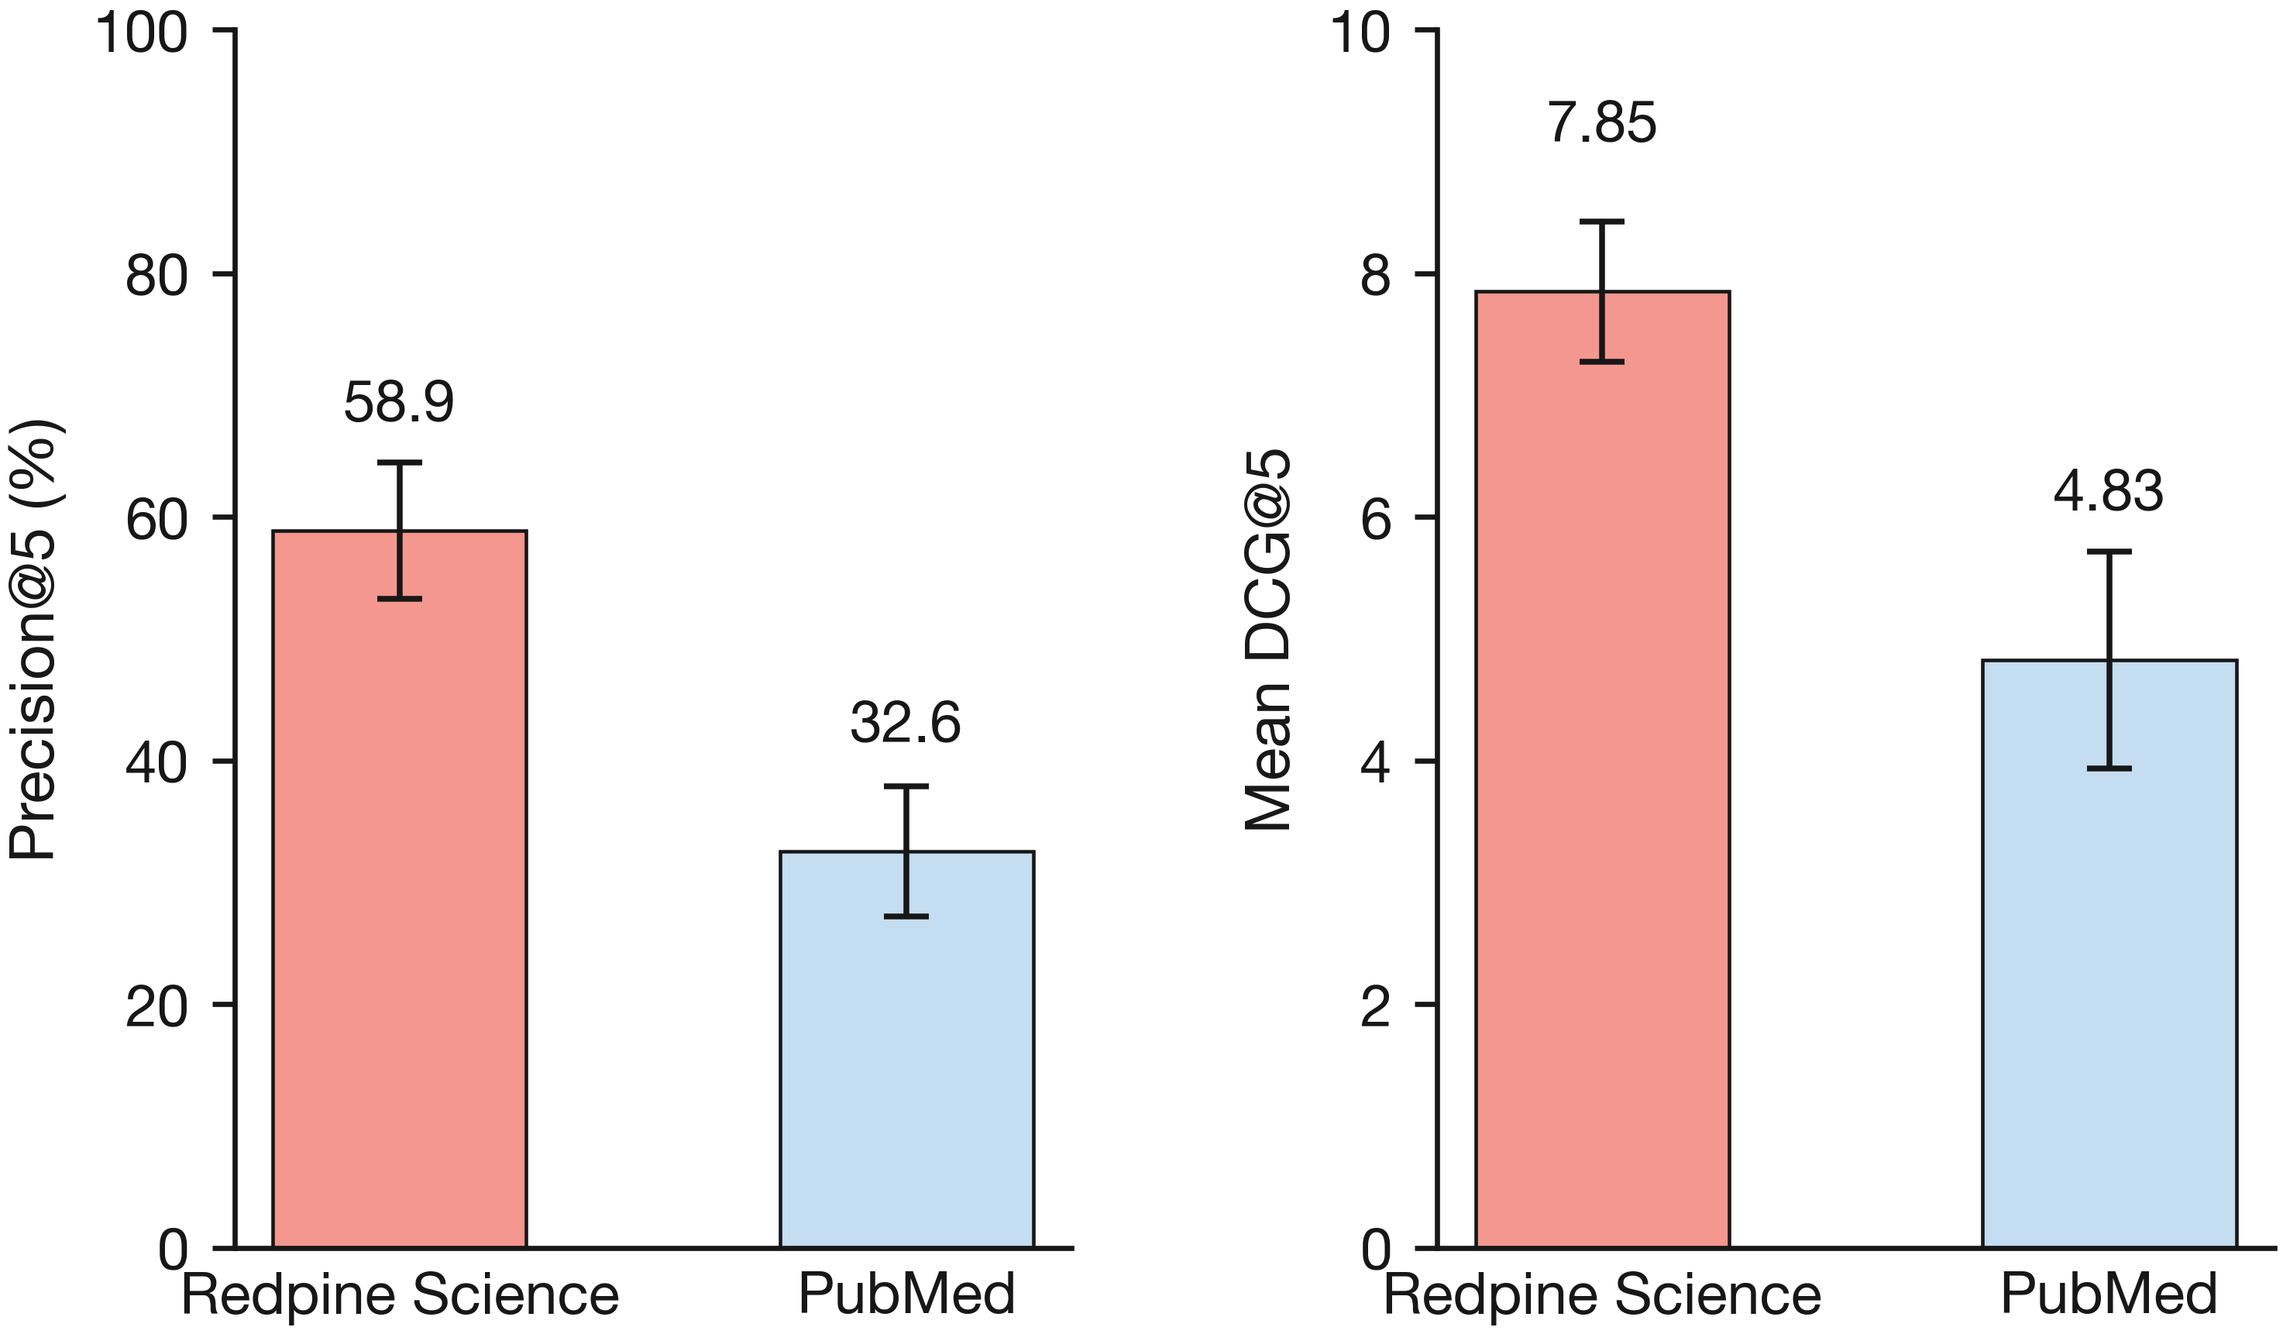
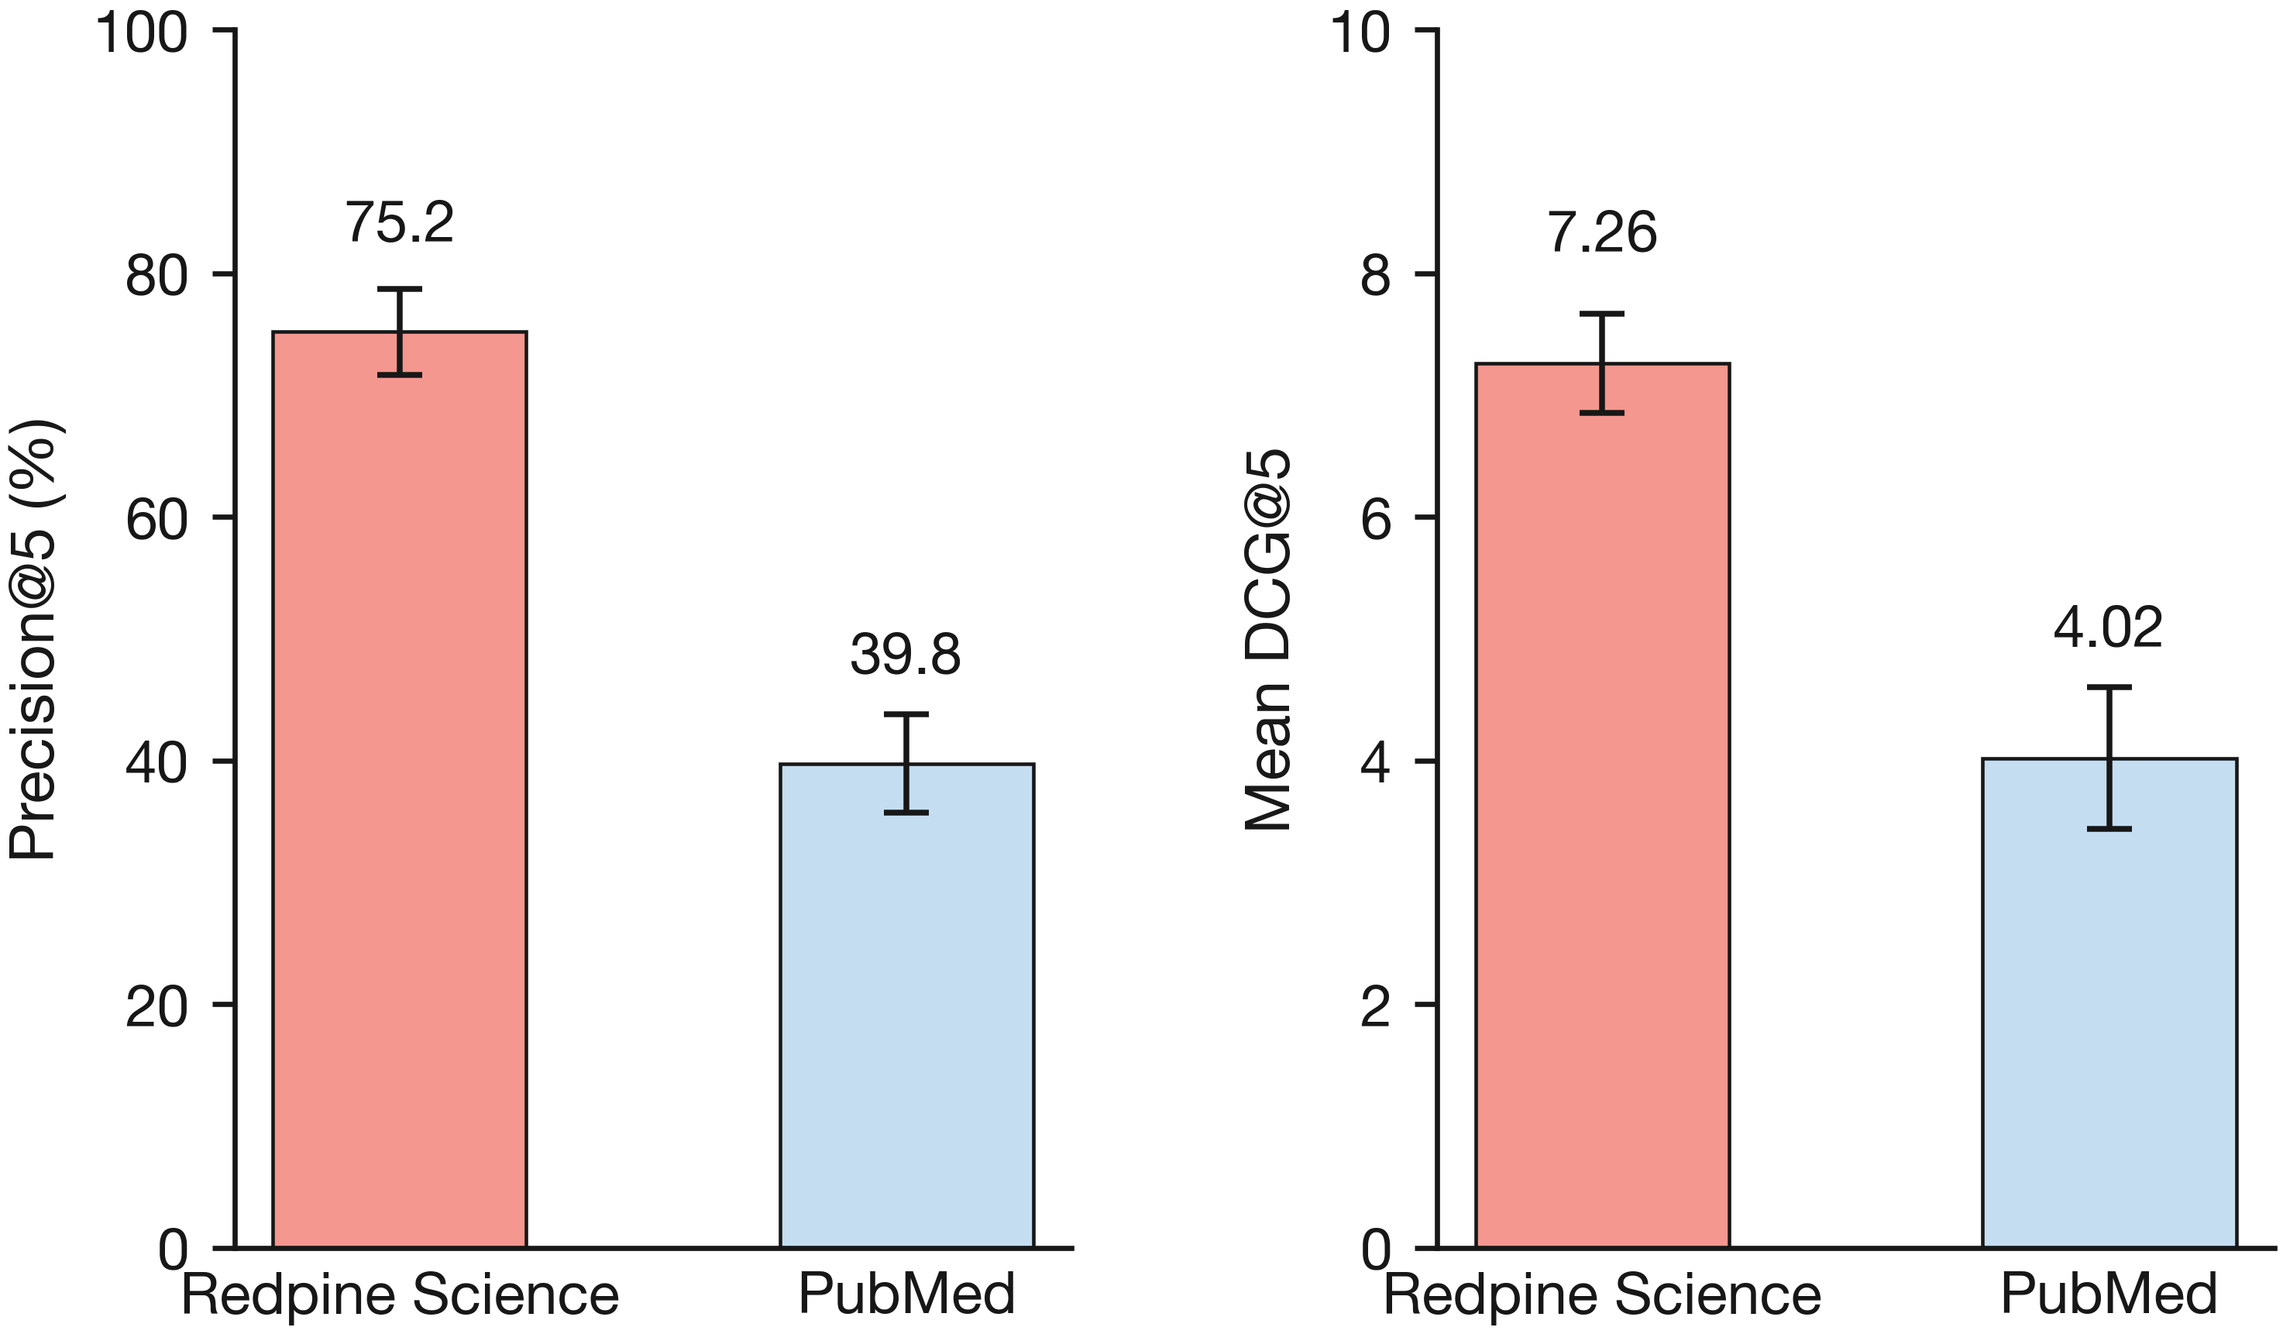
fix(quadrant-four): real n=115 numbers, all three panelists, Precision@5 at a >=2 threshold
The third panelist's 30-question rheumatology batch landed, completing the
90 domain-specific + 25 cross-judged pool this section's Method already
described. Precision@5/DCG@5/mean relevance recomputed from all three
panelists' pooled item-level scores (real n=115, not the earlier two-judge
n=85 placeholder): DCG@5 7.26 vs. 4.02, mean relevance 2.43 vs. 1.38.

Precision@5's relevance threshold also changed from >=3 to >=2 out of 4, a
deliberate choice, not a match to the published evaluation this report's
scale otherwise follows -- stated explicitly in the figure caption, the
Results prose, and the figure script's own docstring so it doesn't read as
a silent mismatch with the citation. Redpine Science 75.2% against 39.8%
for PubMed at this threshold.

Three separate mentions of the old headline number (abstract, Results,
Summary) all updated together.

diff --git a/figures/fig_quadrant4_combined.py b/figures/fig_quadrant4_combined.py
@@ -13,30 +13,33 @@ panel was briefly a separate figure of its own (fig_quadrant4_dcg.py, removed
 2026-09-23 -- "I just want the precision at 5 plot") and is reinstated here,
 now as a second panel of the same figure rather than a second standalone one.
 
-Data provenance -- same pooled judging pass for both panels: two PhD-level
-domain experts each blind-score their own batch of 30 subspecialty questions
-(one batch mostly neurology, the other entirely cardiology), top 5 results
-per system, 0-4 relevance scale, single-shot retrieval (no agent loop),
-"relevant" = score >= 3 of 4, matching quadrant four's Method section. Read
-directly from connect-eval-fresh's run outputs:
+Data provenance, all three panelists now included (2026-09-25 -- the third
+panelist's 30 questions landed, superseding an earlier two-judge, n=85 version
+of this figure): three PhD-level domain experts each blind-score their own
+batch of 30 subspecialty questions (neurology-mostly, cardiology,
+rheumatology), plus 25 further questions cross-judged by two of the three for
+an inter-rater agreement check (see quadrant four's Method section) --
+115 questions in all. Top 5 results per system, 0-4 relevance scale,
+single-shot retrieval (no agent loop), "relevant" = score >= 3 of 4. Read
+directly from connect-eval-fresh's run outputs, each domain batch's own
+summary.json/raw_scores.json plus the cross-judged 25's pooled per-item
+average (judges' scores on a shared item averaged before pooling, so a
+cross-judged question contributes one data point, not two).
 
-    runs/relevance_judging_jin_30/summary.json       n_scored=149 (connect), 149 (pubmed)
-    runs/relevance_judging_zihan_30/summary.json     n_scored=150 (connect), 149 (pubmed)
-    runs/relevance_judging_jin_30/raw_scores.json    ["systems"][system]["per_query_dcg"]
-    runs/relevance_judging_zihan_30/raw_scores.json  ["systems"][system]["per_query_dcg"]
+Precision@5: relevant counts derived directly from the pooled item-level
+scores (>= 2 of 4 counts as relevant -- one point looser than the >= 3
+threshold the published relevance evaluation this report's Method section
+cites uses; a deliberate choice for this report, not a match to their own
+cutoff -- see main.tex's Method section for the same note). Pooled: Redpine
+430/572 = 75.2%, PubMed 227/571 = 39.8%. Error bars are a Wald 95% CI for a
+binomial proportion, from these exact pooled counts.
 
-Precision@5: relevant counts derived from each run's precision * n_scored
-(every one lands on a whole number). Pooled: Redpine 176/299 = 58.9%,
-PubMed 97/298 = 32.6%. Error bars are a Wald 95% CI for a binomial
-proportion, from these exact pooled counts.
-
-Mean DCG@5: per-query DCG@5 values from both judges' 30-query batches
-concatenated into one list of 60 per system (Jin's 30 followed by Zihan's
-30, in query order within each batch) -- the same values fig_quadrant4_dcg.py
-carried before its removal, copied forward here rather than re-derived, since
-they were already checked against the pooled aggregate ("7.85"/"4.83" to two
-decimal places) at the time. Error bars are a two-sided t 95% CI of the mean
-over the 60 pooled per-query values (59 df).
+Mean DCG@5: per-query DCG@5 values from all three domain batches (90 values)
+plus the 25 cross-judged questions' own pooled per-query DCG (each already an
+average across whichever judges scored it) -- 115 values per system in query
+order (Jin's 30, Zihan's 30, Nora's 30, then the 25 cross-judged). Error bars
+are a two-sided t 95% CI of the mean over the 115 pooled per-query values
+(114 df).
 
 Run:  uv run --with matplotlib python figures/fig_quadrant4_combined.py
 """
@@ -60,9 +63,11 @@ ORDER = ["redpine", "pubmed"]
 LABELS = {"redpine": "Redpine Science", "pubmed": "PubMed"}
 
 # --- Panel 1: Precision@5 ---------------------------------------------------
-PRECISION_COUNTS = {  # (relevant, n_scored), pooled across both judges
-    "redpine": (176, 299),
-    "pubmed": (97, 298),
+# Threshold >= 2 of 4 (not the >= 3 a published relevance evaluation's own
+# threshold uses) -- a deliberate choice for this report, see docstring above.
+PRECISION_COUNTS = {  # (relevant, n_scored), pooled across all three panelists' domain
+    "redpine": (430, 572),  # batches plus the two-judge cross-judged 25
+    "pubmed": (227, 571),
 }
 Z_95 = 1.959963984540054  # two-sided normal critical value at 95%
 
@@ -75,9 +80,9 @@ def proportion_and_ci(k, n):
 
 
 # --- Panel 2: mean DCG@5 -----------------------------------------------------
-# Per-query DCG@5, pooled across both judges' 30-query batches (60 values per
-# system): relevance_judging_jin_30's 30 values followed by
-# relevance_judging_zihan_30's 30 values, in query order within each batch.
+# Per-query DCG@5, all three domain batches (90 values) plus the 25
+# cross-judged questions' own pooled per-query value (115 per system), in
+# query order: Jin's 30, Zihan's 30, Nora's 30, then the 25 cross-judged.
 PER_QUERY_DCG = {
     "redpine": [
         7.202601495740551, 8.801553605799326, 5.0716717421690936, 9.976307110209634,
@@ -87,41 +92,67 @@ PER_QUERY_DCG = {
         8.21444760306672, 4.510065430524243, 7.658777744901699, 6.823465818787765,
         6.948459118879392, 6.841248379593765, 10.50180680129739, 4.966241679685392,
         6.127341600334113, 4.870877047725932, 9.432483359370783, 10.77605391471157,
-        9.27605391471157, 9.906983668283027,
-        7.385072130432616, 4.966241679685392, 10.531976968374654, 4.765988484187327,
-        10.293836475517569, 8.271924937667158, 8.845377356638176, 10.045630552136242,
-        6.432483359370782, 5.202601495740551, 9.101300410301262, 8.371418546671029,
-        10.793836475517569, 6.892789260714372, 8.896918237758785, 6.845377356638177,
-        8.406983668283027, 10.732230163872718, 10.232230163872718, 10.345377356638176,
-        9.793836475517569, 10.906983668283027, 8.020130861048486, 9.732230163872718,
-        9.476307110209634, 5.3969182377587845, 7.652841291421868, 8.845377356638176,
-        10.363159917444175, 9.732230163872718,
+        9.27605391471157, 9.906983668283027, 7.385072130432616, 4.966241679685392,
+        10.531976968374654, 4.765988484187327, 10.293836475517569, 8.271924937667158,
+        8.845377356638176, 10.045630552136242, 6.432483359370782, 5.202601495740551,
+        9.101300410301262, 8.371418546671029, 10.793836475517569, 6.892789260714372,
+        8.896918237758785, 6.845377356638177, 8.406983668283027, 10.732230163872718,
+        10.232230163872718, 10.345377356638176, 9.793836475517569, 10.906983668283027,
+        8.020130861048486, 9.732230163872718, 9.476307110209634, 5.3969182377587845,
+        7.652841291421868, 8.845377356638176, 10.363159917444175, 9.732230163872718,
+        4.879135676952785, 7.845377356638177, 5.8969182377587845, 7.0716717421690936,
+        2.7227062322935724, 5.0, 8.458524549403634, 3.335311926113934,
+        10.793836475517569, 8.527847991330242, 8.75827135390557, 2.748205923381328,
+        4.948459118879392, 3.922959427791637, 7.77605391471157, 8.670623852227868,
+        7.6409951840957, 7.614953994062848, 4.908764345084952, 7.901047214803196,
+        5.448459118879392, 4.0, 6.510065430524243, 2.3868528072345416,
+        6.52371901428583, 3.692536065216308, 5.2719249376671575, 8.097171433256849,
+        2.9484591188793923, 6.692536065216308, 7.7251329600883905, 7.033771044993326,
+        8.63893035800448, 6.244076608767902, 7.477197448610597, 7.553347682417997,
+        6.586486076235177, 4.562509712293545, 7.427721393581209, 2.6329942420936634,
+        7.606333463132397, 6.196394630357187, 8.126180512460602, 5.488153555104817,
+        8.529912479852449, 8.3237362306913, 9.069606916077873, 7.717415829806635,
+        7.88003907760148, 9.976307110209634, 7.910842233423906, 7.271021199449448,
+        6.488424304577365, 8.473338883469719, 8.258000604433022,
     ],
     "pubmed": [
-        0.0, 0.0, 0.8868528072345416, 3.922959427791637, 1.9922828697182435,
-        8.583517849495262, 1.1309297535714575, 0.0, 1.5177825608059992,
-        2.7541423768611586, 0.6309297535714575, 4.166494875183456, 2.0616063116448506,
-        6.714447603066719, 1.5, 2.922959427791637, 4.239947294154475,
-        3.1487123143774567, 4.809812235026179, 6.353635985865029, 4.958524549403635,
-        5.4525880959238044, 5.740488793099571, 0.43067655807339306, 3.4484591188793923,
-        1.1309297535714575, 8.133278053813944, 4.184818934934552, 0.0,
-        8.845377356638176,
-        2.5616063116448506, 5.265988484187327, 9.901047214803196, 0.8613531161467861,
-        0.9306765580733931, 0.0, 9.662906721946111, 2.6309297535714578,
-        5.892789260714372, 0.0, 11.793836475517569, 9.089454302975092,
-        2.8613531161467862, 11.793836475517569, 6.827594795832177, 8.1587777449017,
-        6.361353116146786, 9.793836475517569, 7.510065430524243, 6.77605391471157,
-        9.00180680129739, 11.363159917444175, 5.702601495740551, 5.8969182377587845,
-        7.589454302975093, 2.9484591188793923, 4.809812235026179, 6.335311926113934,
-        10.793836475517569, 6.827594795832177,
+        0.0, 0.0, 0.8868528072345416, 3.922959427791637,
+        1.9922828697182435, 8.583517849495262, 1.1309297535714575, 0.0,
+        1.5177825608059992, 2.7541423768611586, 0.6309297535714575, 4.166494875183456,
+        2.0616063116448506, 6.714447603066719, 1.5, 2.922959427791637,
+        4.239947294154475, 3.1487123143774567, 4.809812235026179, 6.353635985865029,
+        4.958524549403635, 5.4525880959238044, 5.740488793099571, 0.43067655807339306,
+        3.4484591188793923, 1.1309297535714575, 8.133278053813944, 4.184818934934552,
+        0.0, 8.845377356638176, 2.5616063116448506, 5.265988484187327,
+        9.901047214803196, 0.8613531161467861, 0.9306765580733931, 0.0,
+        9.662906721946111, 2.6309297535714578, 5.892789260714372, 0.0,
+        11.793836475517569, 9.089454302975092, 2.8613531161467862, 11.793836475517569,
+        6.827594795832177, 8.1587777449017, 6.361353116146786, 9.793836475517569,
+        7.510065430524243, 6.77605391471157, 9.00180680129739, 11.363159917444175,
+        5.702601495740551, 5.8969182377587845, 7.589454302975093, 2.9484591188793923,
+        4.809812235026179, 6.335311926113934, 10.793836475517569, 6.827594795832177,
+        0.0, 5.2221647333484755, 0.0, 6.783771044993326,
+        0.5, 0.0, 9.531976968374654, 4.52371901428583,
+        3.510065430524243, 0.0, 5.07938887245085, 3.0177825608059994,
+        4.966241679685392, 6.017782560805999, 5.8969182377587845, 2.3868528072345416,
+        0.38685280723454163, 3.678882481454721, 3.4964118467626557, 3.335311926113934,
+        2.379135676952785, 0.0, 1.761859507142915, 2.6309297535714578,
+        0.0, 1.2737056144690833, 0.0, 2.6309297535714578,
+        1.8868528072345416, 3.4484591188793923, 2.6110823666742378, 4.812780461766094,
+        1.842409467467276, 6.87114779719848, 5.10722380153336, 0.0,
+        3.7292622747018176, 7.564574200815751, 5.290868586346668, 0.0,
+        0.5308031558224253, 0.31546487678572877, 6.420894601700416, 4.638026957355785,
+        0.19342640361727081, 6.41883011317821, 0.8957440876375412, 5.344203206516934,
+        6.914700798564783, 1.742012120245695, 3.837647164108688, 6.458524549403635,
+        1.261859507142915, 0.0, 5.431579958722088,
     ],
 }
-T_CRIT_59DF = 2.0010  # two-sided t, 95%, 59 df
+T_CRIT_114DF = 1.9809922979375063  # two-sided t, 95%, 114 df
 
 
 def mean_and_ci(values):
     mean = statistics.mean(values)
-    half_width = T_CRIT_59DF * statistics.stdev(values) / len(values) ** 0.5
+    half_width = T_CRIT_114DF * statistics.stdev(values) / len(values) ** 0.5
     return mean, half_width
 
 

diff --git a/main.tex b/main.tex
@@ -65,7 +65,7 @@ against 87.6\% with no retrieval. On the expert-validated question set, an agent
 80.1\% of the required claims against 70.2\% for an agent restricted to web search. On document retrieval, stripped of any model reasoning, Redpine Science
 recovers the correct source paper 83.1\% of the time, against 77.5\% for Exa, the
 benchmark's creator, run under its published configuration. A blinded expert relevance panel places Redpine Science's
-Precision@5 at 54.3\% against 25.4\% for PubMed. We release the
+Precision@5 at 75.2\% against 39.8\% for PubMed. We release the
 expert-validated question set and instructions to reproduce every
 result above, at [link to redpine-benchmarks on GitHub].}
 
@@ -568,21 +568,23 @@ against 81\% for Exa and 72\% for Tavily.
 \begin{figure}[htbp]
     \centering
     \includegraphics[width=0.6\linewidth]{figures/quadrant4_metrics.pdf}
-    \caption{Precision@5 and mean DCG@5, by system, pooled across all 115
-    questions (90 domain-specific plus 25 cross-judged real-world). Left panel
-    error bars are a 95\% confidence interval for a binomial proportion; right
-    panel error bars are a 95\% confidence interval of the mean over the pooled
-    per-query values.}
+    \caption{Precision@5 (score 2 or higher out of 4) and mean DCG@5, by system,
+    pooled across all 115 questions (90 domain-specific plus 25 cross-judged
+    real-world). Left panel error bars are a 95\% confidence interval for a
+    binomial proportion; right panel error bars are a 95\% confidence interval
+    of the mean over the pooled per-query values.}
     \label{fig:quadrant4-metrics}
 \end{figure}
 
 Figure~\ref{fig:quadrant4-metrics} shows the result over all 115 questions.
-Precision@5 is the fraction of a system's top 5 results a judge scores 3 or 4 out of
-4 for relevance, on a 0 to 100\% scale. DCG@5 also weights a relevant result more
-heavily the higher it is ranked; the scale is unbounded and higher is better. Redpine
-Science leads on both: Precision@5 54.3\% against 25.4\% for PubMed, and mean DCG@5
-7.70 against 4.45. Mean relevance per judged result is 2.59 against 1.54 on the 0 to 4
-scale. Agreement between the two panelists who judged the same real-world questions
+Precision@5 is the fraction of a system's top 5 results a judge scores 2 or higher out
+of 4 for relevance, a looser cutoff than the 3-or-4 threshold used by the evaluation
+this report's scale is otherwise matched to~\cite{consensus}, on a 0 to 100\% scale.
+DCG@5 also weights a relevant result more heavily the higher it is ranked; the scale is
+unbounded and higher is better. Redpine Science leads on both: Precision@5 75.2\%
+against 39.8\% for PubMed, and mean DCG@5 7.26 against 4.02. Mean relevance per judged
+result is 2.43 against 1.38 on the 0 to 4 scale. Agreement between the two panelists
+who judged the same real-world questions
 is moderate (quadratic-weighted Cohen's $\kappa$ = 0.59, n = 246 individually judged
 results across the 25 shared questions), the measured inter-rater ceiling for this
 panel.
@@ -612,7 +614,7 @@ retrieval benchmark, Redpine Science recovers the correct document 83.1\% of the
 against 77.5\% for Exa, the benchmark's creator. On the expert-judged retrieval
 panel, three PhD-level domain experts (neurology, cardiology, and rheumatology) plus
 a cross-judged real-world question pool, n = 115 in all, place Redpine Science's
-Precision@5 at 54.3\% against 25.4\% for PubMed; a larger expert-validated
+Precision@5 at 75.2\% against 39.8\% for PubMed; a larger expert-validated
 answer set will be reported later.
 
 \section{Acknowledgments}\label{sec:thanks}
